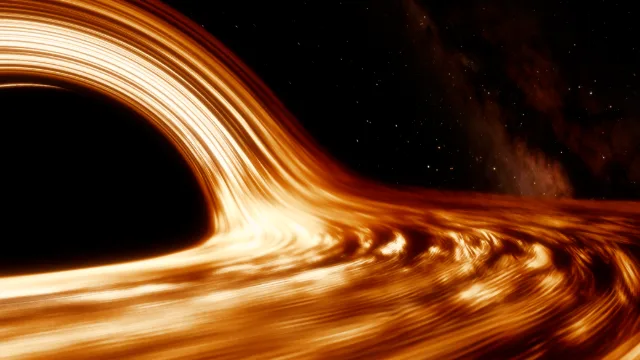
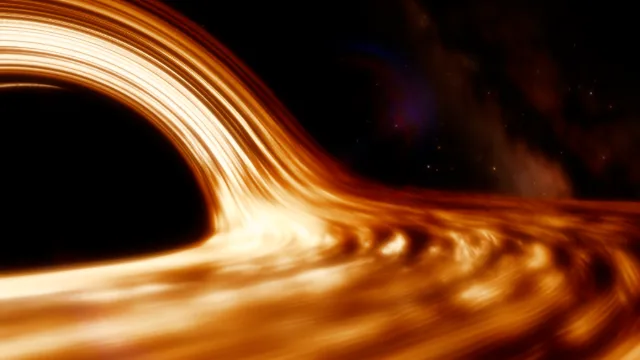
The film's camera: depth of field and lens flare
- the tracer writes a depth per pixel (moments.y: the ray's length where what
  it shows became opaque — lensing included; the sky, the shadow: far)
- depth of field: thin-lens circles of confusion, gathered as a scatter
  (a blurred foreground spreads over a sharp background, not the reverse) at
  half resolution from the image's mips, autofocus on the image's centre;
  the display mixes it where the blur exceeds a pixel (~4 ms)
- lens flare: tinted ghosts mirrored through the centre and a chromatic
  violet halo, from what burns out beyond white (soft: coarse bloom levels)
- settings: Depth of field, Aperture, Focus (0: auto), Lens flare; the film's
  close-pass preset uses them

diff --git a/src/renderer.ts b/src/renderer.ts
@@ -150,6 +150,8 @@ interface Target {
   resolveBuf: GPUBuffer;
   /** where the Ranger was drawn in this target's image (x, y, w, h; w = 0: not drawn) — the bloom's source */
   shipRect: GPUBuffer;
+  /** the image through the depth of field (made when it is first on) */
+  dof: { tex: GPUTexture; buf: GPUBuffer; bind: GPUBindGroup } | null;
   polAcc: GPUBuffer; // Σ Stokes Q, U per pixel
   polGrid: GPUBuffer; // per tick cell Σ I, Q, U, n
   polGridBuf: GPUBuffer; // cell px, grid W, grid H, image W
@@ -193,6 +195,9 @@ export class Renderer {
   private postGatherH: GPUComputePipeline;
   private postDown: GPUComputePipeline;
   private postDownShip: GPUComputePipeline;
+  private postDof: GPUComputePipeline;
+  /** (bound where a target has no depth-of-field image yet) */
+  private dofDummy: GPUTexture;
   private postUp: GPUComputePipeline;
   private postPolGrid: GPUComputePipeline;
   private postBeamH: GPUComputePipeline;
@@ -387,6 +392,8 @@ export class Renderer {
     this.postGatherH = mkPost("gatherH");
     this.postDown = mkPost("down");
     this.postDownShip = mkPost("downShip");
+    this.postDof = mkPost("dof");
+    this.dofDummy = device.createTexture({ size: [1, 1], format: "rgba16float", usage: GPUTextureUsage.TEXTURE_BINDING });
     this.postUp = mkPost("up");
     this.postPolGrid = mkPost("polgrid");
     this.postBeamH = mkPost("beamH");
@@ -624,7 +631,7 @@ export class Renderer {
     const polGrid = d.createBuffer({ size: Math.max(16, Math.ceil(width / 6) * Math.ceil(height / 6) * 16), usage: GPUBufferUsage.STORAGE });
     const polGridBuf = d.createBuffer({ size: 16, usage: GPUBufferUsage.UNIFORM | GPUBufferUsage.COPY_DST });
     const accum = d.createBuffer({ size: px * 16, usage: GPUBufferUsage.STORAGE });
-    const moments = d.createBuffer({ size: px * 4, usage: GPUBufferUsage.STORAGE });
+    const moments = d.createBuffer({ size: px * 8, usage: GPUBufferUsage.STORAGE }); // Σ l², depth
     const stamps = d.createBuffer({ size: px * 4, usage: GPUBufferUsage.STORAGE });
     // realtime reconstruction of stale pixels (live view only): horizontal pass of the gather
     const gather = d.createBuffer({ size: live ? px * 16 : 16, usage: GPUBufferUsage.STORAGE });
@@ -652,6 +659,7 @@ export class Renderer {
       bloomLevels,
       resolveBuf,
       shipRect,
+      dof: null,
       polAcc,
       polGrid,
       polGridBuf,
@@ -671,6 +679,8 @@ export class Renderer {
     if (!t) return;
     for (const b of [t.accum, t.moments, t.stamps, t.gather, t.resolveBuf, t.shipRect, t.polAcc, t.polGrid, t.polGridBuf]) b.destroy();
     this.ship.forget(t.hdr);
+    t.dof?.tex.destroy();
+    t.dof?.buf.destroy();
     t.hdr.destroy();
     t.bloomTex.destroy();
     t.beam?.tex.destroy();
@@ -736,6 +746,14 @@ export class Renderer {
         { binding: 9, resource: { buffer: t.polGridBuf } },
       ],
     });
+    this.bindDisplay(t);
+
+    // resolve → downsample hdr[0] → … → hdr[n-1] → upsample into bloom[k-1] = hdr[k] + tent(bloom[k])
+    this.bindPost(t);
+  }
+
+  private bindDisplay(t: Target) {
+    const d = this.device;
     t.displayBinds.clear();
     for (const p of [this.displayPipeline, this.export8Pipeline, this.export16Pipeline]) {
       t.displayBinds.set(
@@ -751,12 +769,38 @@ export class Renderer {
             // (the Ranger, composited here over the traced image: shipOn in the display's params)
             { binding: 5, resource: this.ship.target(t.hdr).resolved.createView() },
             { binding: 6, resource: this.ship.target(t.hdr).plume.createView() },
+            { binding: 7, resource: (t.dof?.tex ?? this.dofDummy).createView() },
+            { binding: 8, resource: t.bloomTex.createView() },
           ],
         }),
       );
     }
+  }
 
-    // resolve → downsample hdr[0] → … → hdr[n-1] → upsample into bloom[k-1] = hdr[k] + tent(bloom[k])
+  /** The depth of field's image and pass for a target (on first use), the display rebound to it. */
+  private ensureDof(t: Target) {
+    if (t.dof) return t.dof;
+    const d = this.device;
+    // (half resolution: the blur has no fine detail; the display mixes it over the sharp image)
+    const tex = d.createTexture({ size: [Math.ceil(t.width / 2), Math.ceil(t.height / 2)], format: "rgba16float", usage: GPUTextureUsage.STORAGE_BINDING | GPUTextureUsage.TEXTURE_BINDING });
+    const buf = d.createBuffer({ size: 32, usage: GPUBufferUsage.UNIFORM | GPUBufferUsage.COPY_DST });
+    const bind = d.createBindGroup({
+      layout: this.postDof.getBindGroupLayout(0),
+      entries: [
+        { binding: 0, resource: t.hdr.createView() },
+        { binding: 1, resource: this.clampSampler },
+        { binding: 2, resource: tex.createView() },
+        { binding: 11, resource: { buffer: t.moments } },
+        { binding: 17, resource: { buffer: buf } },
+      ],
+    });
+    t.dof = { tex, buf, bind };
+    this.bindDisplay(t);
+    return t.dof;
+  }
+
+  private bindPost(t: Target) {
+    const d = this.device;
     const hdrMip = (l: number) => t.hdr.createView({ baseMipLevel: l, mipLevelCount: 1 });
     const bloomMip = (l: number) => t.bloomTex.createView({ baseMipLevel: l - 1, mipLevelCount: 1 });
     const mipSize = (l: number) => [Math.max(1, t.width >> l), Math.max(1, t.height >> l)] as const;
@@ -1166,9 +1210,17 @@ export class Renderer {
       })(),
       // fraction drawn at full length: synchrotron scenes vs the thermal disk's ≤ 11.7 %
       target.width, target.height, s.hotFlow || s.jet ? Math.max(0.05, s.polFraction) : 0.117, s.band === "230GHz" ? 1 : 0,
-      this.beamSetup(s, target)?.level ?? 0, s.ship && this.ship.ready ? 1 : 0, 0, 0,
+      this.beamSetup(s, target)?.level ?? 0, s.ship && this.ship.ready ? 1 : 0, this.dofOn(s, target) ? 1 : 0, 0,
     ]);
+    // (the lens flare's strength: after the HDR peak)
+    d[14] = s.lensFlare;
     this.device.queue.writeBuffer(this.displayBuf, 0, d);
+  }
+
+  private dofOn(s: Settings, t: Target) {
+    if (!s.dof || s.dofAperture <= 0) return false;
+    this.ensureDof(t);
+    return true;
   }
 
   private writeResolve(t: Target, s: Settings) {
@@ -1388,6 +1440,18 @@ export class Renderer {
       } else if (i === r0) this.device.queue.writeBuffer(t.shipRect, 0, new Float32Array(4));
       if (s && i === r0 + t.bloomLevels - 1) this.encodeBeam(enc, t, s);
     });
+    // the depth of field, from the finished image and its depths (the Ranger, composited later, sharp)
+    if (s && this.dofOn(s, t)) {
+      const dof = t.dof!;
+      // (the largest circle: the aperture × 3 % of the image's height)
+      this.device.queue.writeBuffer(dof.buf, 0, new Float32Array([s.dofFocus, s.dofAperture * 0.03 * t.height, 32, 0]));
+      this.device.queue.writeBuffer(dof.buf, 16, new Uint32Array([t.width, t.height, 0, 0]));
+      const pass = enc.beginComputePass(this.prof.pass("depth of field"));
+      pass.setPipeline(this.postDof);
+      pass.setBindGroup(0, dof.bind);
+      pass.dispatchWorkgroups(Math.ceil(t.width / 16), Math.ceil(t.height / 16));
+      pass.end();
+    }
     // the light meter, on the live view (the scene: the Ranger is composited at display)
     if (s?.autoExposure && t === this.live && !this.meterPending) {
       this.device.queue.writeBuffer(this.histBuf, 0, new Uint32Array(128));

diff --git a/src/ui/schema.ts b/src/ui/schema.ts
@@ -697,6 +697,26 @@ export const SCHEMA: ControlDef[] = [
     help: "Fraction of the light spread by the lens point-spread function (energy-conserving multi-scale glow).",
   },
   {
+    key: "lensFlare", type: "number", section: "render", group: "Image", label: "Lens flare", min: 0, max: 1, step: 0.01, effect: "display",
+    help: "A camera's flare, as in the film: what burns out beyond white is reflected between the lens elements — tinted ghosts mirrored through the image's centre, and a halo ring, violet at its edge.",
+    keywords: "flare ghost halo lens camera film interstellar",
+  },
+  {
+    key: "dof", type: "toggle", section: "render", group: "Image", label: "Depth of field", effect: "display",
+    help: "A thin lens: what is nearer or farther than the focus is blurred by its circle of confusion, from the depth each ray reached before what it shows became opaque (the Ranger stays sharp). Autofocus on the image's centre, or a set distance.",
+    keywords: "depth of field dof bokeh focus blur aperture lens",
+  },
+  {
+    key: "dofAperture", type: "number", section: "render", group: "Image", label: "Aperture", min: 0, max: 2, step: 0.01, effect: "display",
+    visible: (s) => s.dof,
+    help: "The largest blur (the sky's, when focused near), in units of 3 % of the image's height; twice that for what is much nearer than the focus.",
+  },
+  {
+    key: "dofFocus", type: "number", section: "render", group: "Image", label: "Focus", min: 0, max: 200, step: 0.1, unit: "M", effect: "display",
+    visible: (s) => s.dof,
+    help: "Focus distance along the rays (0: autofocus on the depth at the image's centre).",
+  },
+  {
     key: "pixelRatio", type: "number", section: "render", group: "Image", label: "Pixel ratio", min: 0.25, max: 3, step: 0.05, unit: "×", effect: "resize",
     help: "Internal resolution relative to CSS pixels. Higher = sharper and slower.",
   },

diff --git a/src/settings.ts b/src/settings.ts
@@ -156,6 +156,10 @@ export interface Settings {
   exposure: number; // EV
   autoExposure: boolean; // the light meter sets the exposure (the setting: a bias on top)
   bloom: number; // fraction of the energy spread by the optical PSF
+  dof: boolean; // depth of field (a thin lens)
+  dofAperture: number; // its largest circle of confusion, in units of 3 % of the image's height
+  dofFocus: number; // focus distance [M]; 0: autofocus (the depth at the image's centre)
+  lensFlare: number; // strength of the lens's ghosts and halo (0: none)
   tonemap: Tonemap;
   hdr: "auto" | "on" | "off"; // extended-range (EDR/HDR) canvas output
   hdrPeak: number; // brightest displayable value, in units of SDR white
@@ -323,6 +327,10 @@ export function defaultSettings(): Settings {
     exposure: 0,
     autoExposure: false,
     bloom: 0.1,
+    dof: false,
+    dofAperture: 0.5,
+    dofFocus: 0,
+    lensFlare: 0,
     tonemap: "AgX punchy",
     hdr: "auto",
     hdrPeak: 4,
@@ -416,6 +424,7 @@ export const presets: Record<string, Preset> = {
     spin: 0.6, distance: 17.353, inclination: 84.456, azimuth: 40.467, fov: 45, yaw: 31.427, pitch: 6.397, roll: -4.302,
     motion: "static", shiftMode: "none", diskTemp: 4500, diskOuter: 26, turbulence: 0.95, diskEmission: "bolometric",
     diskThickness: 0.009, diskTau: 59, jet: false, animate: false, time: 1692.84, tonemap: "Film", bloom: 0.5,
+    dof: true, dofAperture: 0.5, dofFocus: 0, lensFlare: 0.6,
   },
   // (a flight: the image never accumulates — the thin disk, crisp in motion, where the volume would be grainy)
   "Ranger: approaching Gargantua": {

diff --git a/src/main.ts b/src/main.ts
@@ -53,7 +53,7 @@ function sanitize(s: Settings): Settings {
 /** Rendering / performance choices survive preset changes. */
 const KEEP_ON_PRESET: (keyof Settings)[] = [
   "pixelRatio", "realtimeSubsampling", "realtimeBudget", "realtimeEps", "realtimeSteps", "qualityEps", "qualitySteps",
-  "targetSpp", "denoise", "denoiseStrength", "quality", "tonemap", "hdr", "hdrPeak", "bloom", "exposure", "animate", "timeSpeed", "bgIntensity", "starSize", "starBrightness", "skyL", "skyB", "skyRoll",
+  "targetSpp", "denoise", "denoiseStrength", "quality", "tonemap", "hdr", "hdrPeak", "bloom", "dof", "dofAperture", "dofFocus", "lensFlare", "exposure", "animate", "timeSpeed", "bgIntensity", "starSize", "starBrightness", "skyL", "skyB", "skyRoll",
   "massSolar", "cinematicSpeed", "rotation", "cinematic", "waterRipples", "waterMirror", "waterSpeed", "waterGlow", "waterColor", "waterDensity", "waterGlowColor", "ship", "shipMount", "shipAlbedo", "shipMetal", "shipRough", "shipLight", "shipCoat",
   "turnRate", "turnAccel", "rcsFraction", "crashSpeed", "ballistic", "autosave", "autosaveEvery", "rangerStatus", "soiRings", "pathInView",
   "sound", "soundVolume", "soundBeeps", "soundEngines", "soundAmbience", "soundUi",

diff --git a/README.md b/README.md
@@ -89,6 +89,11 @@ Frequency-shift toggles let you switch off Doppler, beaming, or all shifts ("Int
   dependency).
 * HDR post: energy-conserving multi-scale bloom (optical PSF), AgX / ACES tone mapping, and a
   **variance-guided à-trous denoiser** (SVGF-style edge stopping on each pixel's Monte Carlo variance).
+* **The film's camera**: a *Film* tone map (2 EV over, each channel rolling off to warm cream, orange
+  mid-tones, cool shadows, the bloom as an additive haze); **depth of field** from a per-pixel depth
+  (the ray's length where what it shows became opaque — lensing included), thin-lens circles of
+  confusion gathered at half resolution with autofocus on the image's centre; a **lens flare** (tinted
+  ghosts through the centre and a chromatic halo, from what burns out beyond white).
 * **HDR / EDR output**: on high-dynamic-range screens the canvas is rgba16float with "extended" tone
   mapping, highlights roll off to a chosen peak (× SDR white) instead of being compressed.
 
